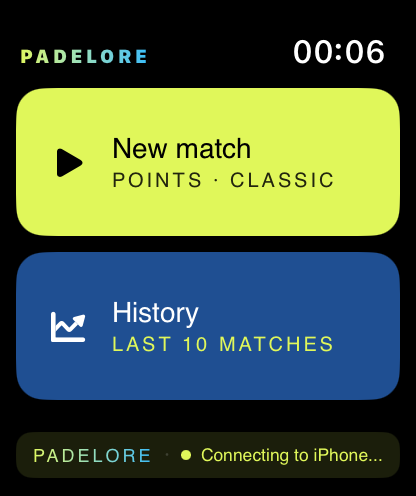
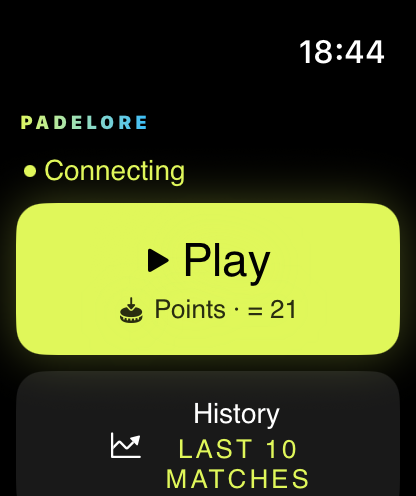
fix(landing): realny watch-home 1.9.0 (żółty+czarny, bez niebieskiej History)
Feedback Remiego: ekran główny Apple Watch w produkcji 1.9.0 ma tylko żółty
przycisk "▶ Play" + ciemną "History" (żółty tekst) — zero niebieskiego.
Stary watch-home.png pokazywał niebieski przycisk History (pre-reskin, AC3).

- watch-home.png zregenerowany ze świeżego builda PadelMatchProWatch na watch-sim
  (Series 11 46mm) — realny render 1.9.0 (HomeView: History bg = white.opacity(0.10)).
- Hero-watch wrócił na watch-home (poprzedni swap na watch-scoring był z błędnego
  odczytania "nie ma niebieskiego" — chodziło o brak niebieskiego, nie o dodanie).

diff --git a/index.html b/index.html
@@ -303,7 +303,7 @@ html[data-theme="light"] .lframe{background:#0B1730}
 
       <div class="reveal in d1 hero-stage">
         <div class="device floaty"><img src="assets/01-home.png" data-i18n-alt="hero.alt_home" alt="Ekran główny Padelore" loading="eager"></div>
-        <div class="wframe floaty" style="animation-delay:.7s"><img src="assets/watch-scoring.png" data-i18n-alt="hero.alt_watch" alt="Padelore na Apple Watch — wynik meczu na żywo"></div>
+        <div class="wframe floaty" style="animation-delay:.7s"><img src="assets/watch-home.png" data-i18n-alt="hero.alt_watch" alt="Padelore na Apple Watch — ekran główny: Graj i Historia"></div>
         <div class="hero-fence floaty" style="animation-delay:1.1s"><div class="lframe"><div class="fenceboard">
           <div class="fb-wmark"><span class="fb-wdot"></span>PADELORE</div>
           <div class="fb-top"><span class="fb-pill"><span class="fb-pdot"></span><span data-i18n="mock.fb_round">Runda 2 z 3</span></span></div>

diff --git a/CHANGELOG.md b/CHANGELOG.md
@@ -9,8 +9,12 @@ Format: [Keep a Changelog](https://keepachangelog.com). Wpisy wiążą się ze s
   wystartowanych turniejów („NA ŻYWO" ×kilkanaście na Home) → przez to brakowało action cards
   i ekrany nie odpowiadały appce. Zregenerowane z czystego stanu (1 aktywny turniej „Klub Wisła"):
   01-home = greeting + JAK GRAM + 1 turniej + action cards (Pojedynczy mecz / Gram w turnieju),
-  wymuszony dark mode. Hero-watch: `watch-home` → `watch-scoring` (niebieski MY 14 — Remi: „nie ma niebieskiego").
-  Podmienione 01/02/03/05/06/08/09.
+  wymuszony dark mode. Podmienione 01/02/03/05/06/08/09.
+- **Realny watch-home 1.9.0** (feedback Remiego): stary `watch-home.png` pokazywał niebieski przycisk
+  „History", którego w produkcji nie ma — ekran główny zegarka 1.9.0 to żółty „▶ Play" + ciemna
+  „History" (żółty tekst), tylko żółty + czarny. Zregenerowane ze świeżego builda `PadelMatchProWatch`
+  na watch-sim. Hero-watch wrócił na `watch-home` (poprzedni swap na `watch-scoring` był z błędnego
+  odczytania „nie ma niebieskiego").
 
 ### Removed
 - **Martwy CSS/JS fake-ekranów** (SPEC-003 domknięte): ~260 linii nieużywanych stylów